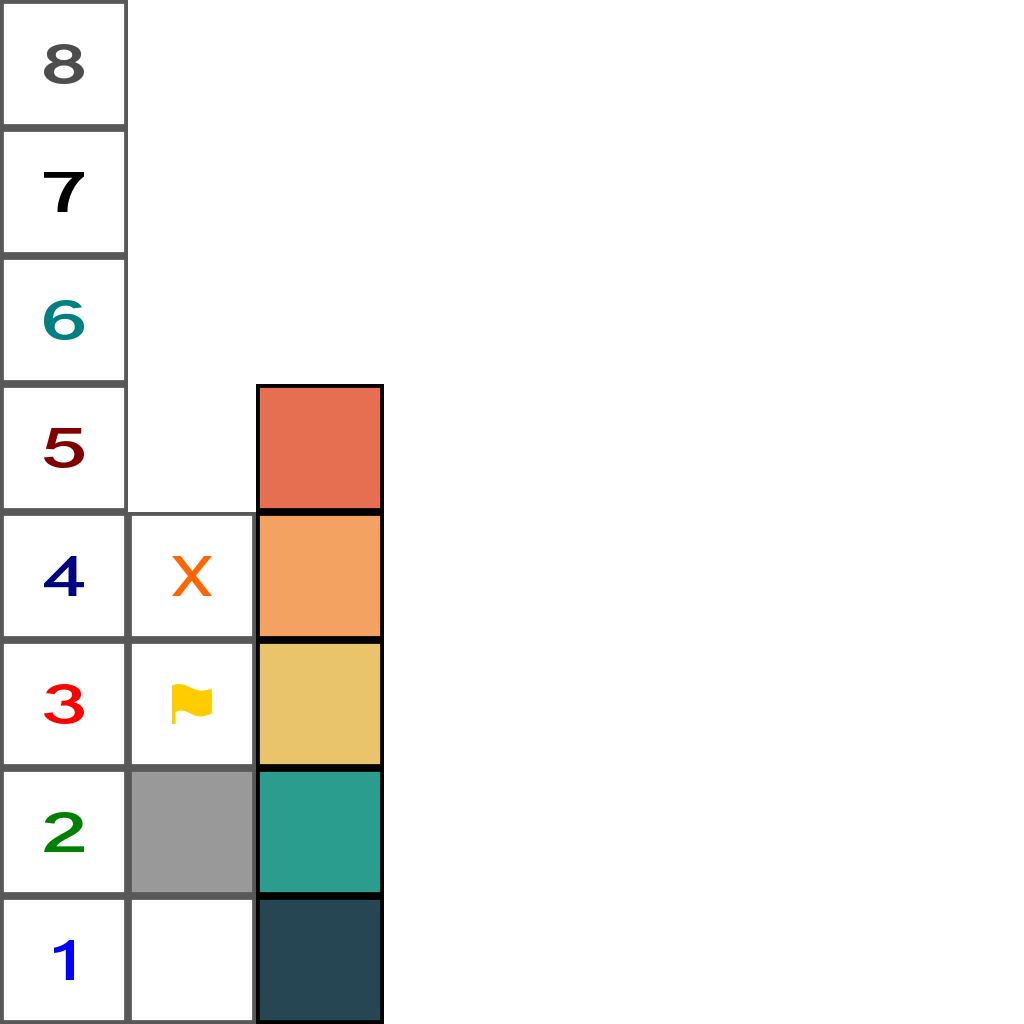
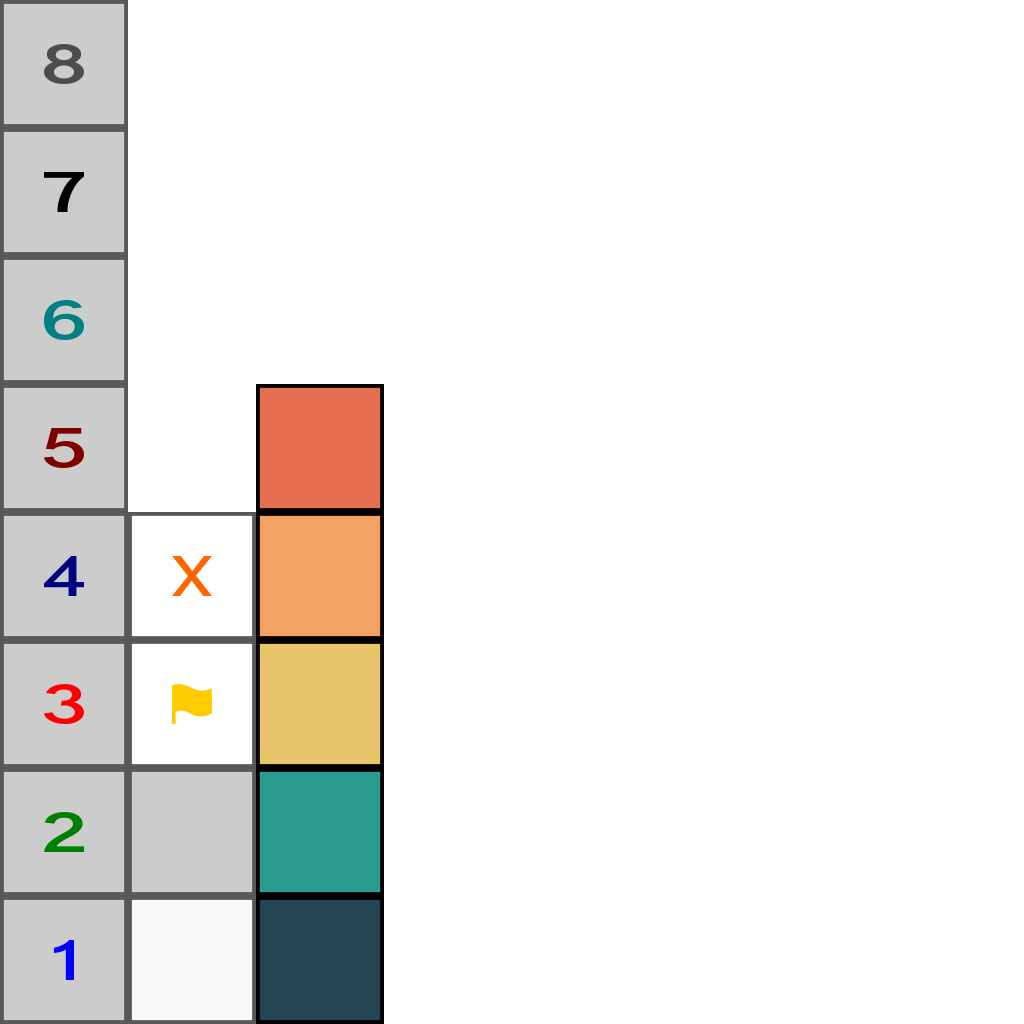
Working game
- Fix major bug where local pos was off by 1 pn x and y
- Update the new Atlas

Changed region(s): [[0.0, 0.0, 0.25, 1.0]]

diff --git a/Assets/Scripts/TerrainModifier.cs b/Assets/Scripts/TerrainModifier.cs
@@ -27,16 +27,17 @@ public class TerrainModifier : MonoBehaviour
         ChunkPos chunkPos = GetChunkPosition(blockPos); // Get the chunk position from the block position
         if (TerrainGenerator.chunks.TryGetValue(chunkPos, out TerrainChunk chunk)) // Check if the chunk exists
         {
-            int localX = blockPos.x - chunkPos.x + 1, localZ = blockPos.z - chunkPos.z + 1; // Calculate local block positions within the chunk
+            int localX = blockPos.x - chunkPos.x;
+            int localZ = blockPos.z - chunkPos.z;
             
             // Check if the block is unplayed before starting flood fill
-            if (chunk.blocks[localX, blockPos.y - 1, localZ] == BlockType.Mine)
+            if (chunk.blocks[localX + 1, blockPos.y - 1, localZ + 1] == BlockType.Mine)
             {
                 Debug.Log("Game Over");
             }
-            else if (chunk.blocks[localX, blockPos.y - 1, localZ] == BlockType.Unplayed) // Ensure the block is unplayed
+            else if (chunk.blocks[localX + 1, blockPos.y - 1, localZ + 1] == BlockType.Unplayed) 
             {
-                FloodFill(blockPos, localX, localZ); // Start flood fill from this block
+                FloodFill(blockPos, localX, localZ);
             }
             else
             {

diff --git a/Assets/Scripts/Block.cs b/Assets/Scripts/Block.cs
@@ -46,7 +46,7 @@ public class Block
         {BlockType.Unplayed, new Block(Tile.Unplayed, Tile.Unplayed, Tile.Unplayed)},
         {BlockType.Played, new Block(Tile.Played, Tile.Unplayed, Tile.Unplayed)},
         {BlockType.Flag, new Block(Tile.Flag, Tile.Unplayed, Tile.Unplayed)},
-        {BlockType.Mine, new Block(Tile.Mine, Tile.Unplayed, Tile.Unplayed)},
+        {BlockType.Mine, new Block(Tile.Unplayed, Tile.Unplayed, Tile.Unplayed)},
 
         
         // Colors
